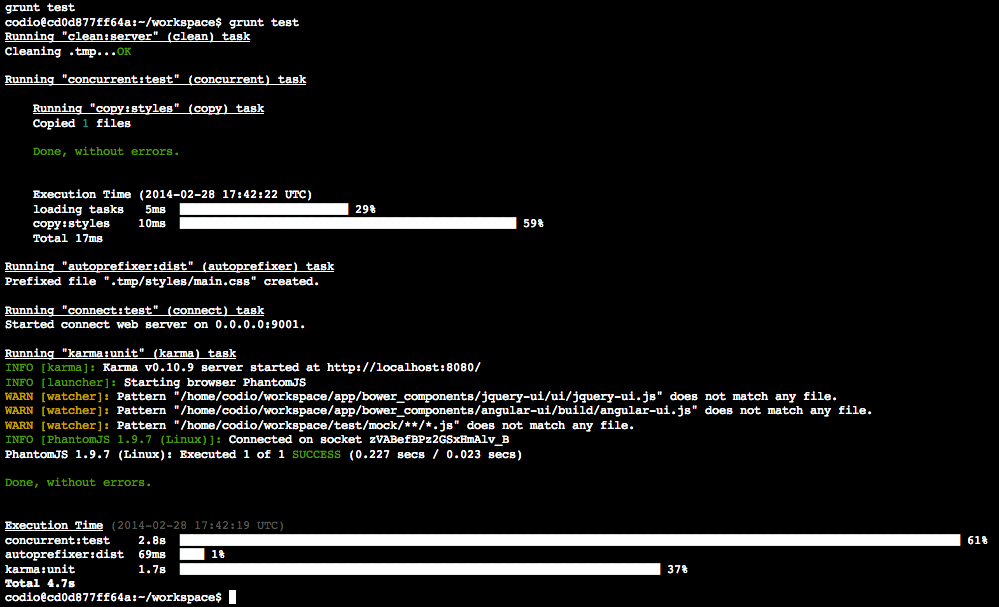
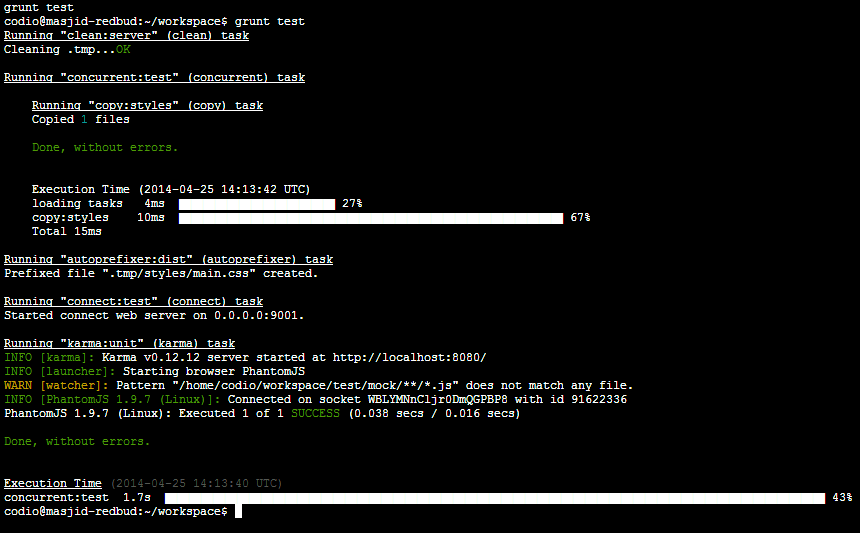
add sortable modules

Changed region(s): [[0.0, 0.0, 0.9977, 1.0]]

diff --git a/annotations.md b/annotations.md
@@ -11,24 +11,30 @@ Codio lets you create panels from the View->Panels menu. To get it done really q
 
 ![panels ready](img/panels-created.png)
 
-Use the navigation buttons at the top to move to the next step.
+Use the navigation buttons at the top to move to the next step. all Ok
 
 @annotation:tour
 ##MEET YEOMAN
 
 ![yeoman terminal](img/yeoman-term.png)
 
-Yeoman is a man in a hat with three tools for improving your productivity:
+Yeoman is a man in a hat with tricks up his sleeve.
 
-[yo](http://yeoman.io/) is a scaffolding tool that offers an ecosystem of framework-specific scaffolds, called generators, that can be used to perform some of the tedious tasks I mentioned earlier.
+With just a command or two, Yeoman can write boilerplate code for your entire web application or individual pieces like Controllers and Models. Yeoman can fire up a preview web server and watch your files for edits in order to live reload changes and compile your Sass. Yeoman can also run your unit tests, minimize and concatenate your code, optimize images, plus more!
+
+Yeoman comes with three tools for improving your productivity:
+
+[yo](http://yeoman.io/) is a scaffolding tool that offers an ecosystem of framework-specific scaffolds, called generators, that can be used to perform some of the tedious tasks mentioned earlier.
 
 [grunt](http://gruntjs.com/) is used to build, preview and test your project, thanks to help from tasks curated by the Yeoman team and [grunt-contrib](https://github.com/gruntjs/grunt-contrib).
 
 [bower](http://bower.io/) is used for dependency management, so that you no longer have to manually download your front-end libraries.
 
-With just a command or two, Yeoman can write boilerplate code for your app (or individual pieces like Models), compile your Sass, and fire up a simple web server in your current directory. It can also run your unit tests, minimize and concatenate your CSS, JS, HTML and images, plus more.
+You can install generators using the [npm](http://npmjs.org/) command and there are over [500 generators](http://yeoman.io/community-generators.html) now available, many of which have been written by the open-source community. Popular generators include [generator-angular](https://github.com/yeoman/generator-angular), [generator-backbone](https://github.com/yeoman/generator-backbone) and [generator-ember](https://github.com/yeoman/generator-ember).
 
-You can install generators using the [npm](http://npmjs.org/) command and there are over [450 generators](http://yeoman.io/community-generators.html) now available, many of which have been written by the open-source community. Popular generators include [generator-angular](https://github.com/yeoman/generator-angular), [generator-backbone](https://github.com/yeoman/generator-backbone) and [generator-ember](https://github.com/yeoman/generator-ember).
+##WHY USE YEOMAN?
+
+With so many great tools available to front-end web developers these days it can sometimes be difficult to understand how they all fit together. Deciding on a workflow that you’re happy with is often a very personal endeavour, but getting started isn’t always easy. Yeoman aims to solve this problem by scaffolding workflows for creating modern webapps, while at the same time mixing in many of the best practices that have evolved within the industry.
 
 ##TODAY’S SAMPLE YEOMAN APP: A TODO APP USING ANGULARJS
 
@@ -36,7 +42,7 @@ For those unfamiliar with AngularJS, it is a JavaScript framework for developing
 
 To dig deeper into the sweet spots of AngularJS, take a look at the detailed [documentation](http://docs.angularjs.org/guide).
 
-Let’s dive right into building the below Todo app from scratch.
+The sample web app you'll build will be a Todo app. You will be able to add todos, delete todos, organize your todos using drag and drop, and save todos offline.
 
 ![sample app](img/sample-app.png)
 
@@ -90,6 +96,8 @@ Alternatively, if you already know the name of the generator you want to use, th
 @annotation:tour
 #Use a Generator to scaffold your App
 
+We've used the word "scaffold" a few times but you might not know what that means. Scaffolding, in the Yeoman sense of the word, means generating files for your web app based on your specific configuration requests. In this step, you'll see how Yeoman can generate files specifically for Angular apps — with options for using other external libraries like SASS and Twitter Bootstrap — with minimal effort.
+
 Once a generator has been installed, you will automatically see the screen below (or it can be accessed via the Yeoman interactive menu: `$ yo`.
     
 ![install angular](img/yo-install-angular.png)    
@@ -135,7 +143,7 @@ In the file tree on the left, take a look at what was actually scaffolded. We ha
   - **fonts**: fonts used in the package
   - **images**: images used in the package
   - **scripts/controllers**: our own JS files
-  - **scripts/app.js**: our main application code
+  - **scripts/app.js**: our main Angular application code
   - **controllers**: our Angular controllers
   - **styles**: our CSS files
   - **views**: a place for our Angular templates
@@ -385,13 +393,154 @@ One thing you might notice is that although we’re able to add and remove items
 Don’t worry, we’ll fix this later after we learn more about installing packages with Bower.
 
 @annotation:tour
-#Using Bower to install angular-local-storage
+#Using Bower to install packages
+
+Let’s add some order to our list and make it sortable. For this we’re going to use Bower to install the [AngularUI Sortable](https://github.com/angular-ui/ui-sortable) module, a directive component for AngularJS.
 
 We can check what packages we have already installed with:
 
     $ bower list
+    
+You should see that you already have packages for angular-cookies, angular-resources, angular-route, plus others. 
 
-To easily achieve persistence, we can use another Angular module called [angular-local-storage](http://gregpike.net/demos/angular-local-storage/demo.html) that will allow us to quickly implement [Local Storage](http://diveintohtml5.info/storage.html). Bower comes to the rescue. Run the following command in the terminal:
+#Search for packages
+
+To verify that there are AngularUI packages available, use Bower to search for "angular-ui-sortable":
+
+    $ bower search angular-ui-sortable
+    
+There is one result for "angular-ui-sortable" so let’s install it along with [jQuery UI](http://jqueryui.com/) as we already have jQuery installed. To save you from searching, the package name for jQuery UI is "jquery-ui".
+
+#Install Packages
+
+Use Bower to install both "angular-ui-sortable" and "jquery-ui":
+
+    $ bower install --save angular-ui-sortable
+    $ bower install --save jquery-ui
+    
+The `--save` option updates the **bower.json** file with dependencies on angular-ui-sortable and jquery-ui. This will save you from having to manually add it to *bower.json* yourself.
+
+If you have multiple packages that you want to install, you can do it in one line:
+
+    $ bower install --save angular-ui-sortable jquery-ui
+    
+#Confirm Installation
+
+Take a look at your **app/bower_components** directory just to check that everything is there as expected. You should see folders for "jquery-ui" and "angular-ui-sortable" alongside the previously installed angular packages. If you do not see these new folders immediately, refresh the file tree using the refresh button at the bottom right of the tree
+
+@annotation:tour
+#Make Todos Sortable
+
+References to these newly installed dependencies must be added to our **app/index.html** file. You could manually add the AngularUI Sortable module and jQueryUI script files yourself but Yeoman will automate this for you!
+
+Quit your current command line process by using the Ctrl+C keyboard command in the Terminal or closing the Grunt Serve tab
+
+Then run `grunt serve` again.
+
+You'll see that the script section at the bottom of **app/index.html** has automatically updated to include `jquery-ui/ui/jquery-ui.js` and `angular-ui-sortable/sortable.js`:
+
+    <!-- build:js scripts/vendor.js -->
+    <!-- bower:js -->
+    <script src="bower_components/jquery/dist/jquery.js"></script>
+    <script src="bower_components/angular/angular.js"></script>
+    <script src="bower_components/bootstrap/dist/js/bootstrap.js"></script>
+    <script src="bower_components/angular-resource/angular-resource.js"></script>
+    <script src="bower_components/angular-cookies/angular-cookies.js"></script>
+    <script src="bower_components/angular-sanitize/angular-sanitize.js"></script>
+    <script src="bower_components/angular-route/angular-route.js"></script>
+    <script src="bower_components/jquery-ui/ui/jquery-ui.js"></script>
+    <script src="bower_components/angular-ui-sortable/sortable.js"></script>
+    <!-- endbower -->
+    <!-- endbuild -->
+
+@annotation:tour
+#Using Sortable Module
+
+**app/scripts/app.js**
+
+IMPORTANT: don't modify `main.js` by mistake. I made this mistake a couple of times setting this all up!
+
+In order to use the Sortable module, we must load it into our application by updating our Angular module definitions in `app/scripts/app.js`. Currently it looks like this:
+
+    'use strict';
+
+    angular.module('workspaceApp', [
+      'ngCookies',
+      'ngResource',
+      'ngSanitize',
+      'ngRoute'
+    ])
+      .config(function ($routeProvider) {
+        $routeProvider
+          .when('/', {
+            templateUrl: 'views/main.html',
+            controller: 'MainCtrl'
+          })
+          .otherwise({
+            redirectTo: '/'
+          });
+      });
+
+Add the ui.sortable dependency to the array list in the second paramater. Our complete todo module should now look like this:
+
+    'use strict';
+
+    angular.module('workspaceApp', [
+      'ngCookies',
+      'ngResource',
+      'ngSanitize',
+      'ngRoute',
+      'ui.sortable'
+    ])
+      .config(function ($routeProvider) {
+        $routeProvider
+          .when('/', {
+            templateUrl: 'views/main.html',
+            controller: 'MainCtrl'
+          })
+          .otherwise({
+            redirectTo: '/'
+          });
+      });
+      
+**app/views/main.html**      
+
+Finally, we need to add the `ui-sortable` directive as a `div` wrapper around our `ng-repeat` in `app/views/main.html`:
+
+    <!-- Todos list -->
+    <div ui-sortable ng-model="todos">
+      <p class="input-group" ng-repeat="todo in todos">
+      
+Let's also add some inline css in order to show a move cursor so it’s clear that we can move todo items:
+
+    <p class="input-group" ng-repeat="todo in todos" style="padding:5px 10px; cursor: move;">
+
+The full todo list markup looks like this now:
+
+    <!-- Todos list -->
+    <div ui-sortable ng-model="todos">
+      <p class="input-group" ng-repeat="todo in todos" style="padding:5px 10px; cursor: move;">
+        <input type="text" ng-model="todo" class="form-control">
+        <span class="input-group-btn">
+          <button class="btn btn-danger" ng-click="removeTodo($index)" aria-label="Remove">X</button>
+        </span>
+      </p>
+    </div>
+    
+Back in the browser, we can now re-order our list by dragging the entries up and down from:
+
+![order1](img/order1.png) 
+
+to:
+
+![order2](img/order2.png)
+
+@annotation:tour
+#Make Todos persistent with Local Storage
+
+Let’s revisit the issue of items not persisting when the browser refreshes.
+
+To easily achieve this, we can use another Angular module called [angular-local-storage](http://gregpike.net/demos/angular-local-storage/demo.html) that will allow us to quickly implement [Local Storage](http://diveintohtml5.info/storage.html). Bower comes to the rescue. Run the following command in the terminal:
 
     $ bower install --save angular-local-storage
 
@@ -401,7 +550,7 @@ and you'll see something like this ...
 
 
 @annotation:tour
-#Modifying index.html for Local Storage
+#Modifying app/index.html for Local Storage
 There are now 4 tutorial steps you'll run through to get persistant storage up and running, so don't start previewing just yet!
 
 Modify `app/index.html` to include the new Angular module by adding the following after the other Angular script tags:
@@ -412,14 +561,20 @@ Modify `app/index.html` to include the new Angular module by adding the followin
 
 Your `index.html` scripts should now look like this:
 
-    <script src="bower_components/jquery/dist/jquery.js"></script>
+    <!-- build:js scripts/vendor.js -->
+    <!-- bower:js -->
+    <script src="bower_components/jquery/jquery.js"></script>
     <script src="bower_components/angular/angular.js"></script>
     <script src="bower_components/bootstrap/dist/js/bootstrap.js"></script>
     <script src="bower_components/angular-resource/angular-resource.js"></script>
     <script src="bower_components/angular-cookies/angular-cookies.js"></script>
     <script src="bower_components/angular-sanitize/angular-sanitize.js"></script>
     <script src="bower_components/angular-route/angular-route.js"></script>
+    <script src="bower_components/jquery-ui/ui/jquery-ui.js"></script>
+    <script src="bower_components/angular-ui-sortable/sortable.js"></script>
     <script src="bower_components/angular-local-storage/angular-local-storage.js"></script>
+    <!-- endbower -->
+    <!-- endbuild -->
 
 @annotation:tour
 #Modifying app/scripts/app.js for Local Storage
@@ -433,6 +588,7 @@ Edit the todo module (app/scripts/app.js) to include the `localStorage` adapter:
       'ngResource',
       'ngSanitize',
       'ngRoute',
+      'ui.sortable',
       'LocalStorageModule'
     ])
 
@@ -451,6 +607,7 @@ Our todo module (app/scripts/app.js) should now look like this:
       'ngResource',
       'ngSanitize',
       'ngRoute',
+      'ui.sortable',
       'LocalStorageModule'
     ])
       .config(['localStorageServiceProvider', function(localStorageServiceProvider){
@@ -540,11 +697,9 @@ So to recap, in this section we:
 - Installed dependencies to improve the functionality in our app with `bower`
 - Used `grunt serve` to build and preview an interim version of our app. All our edits resulted in a live reload of the page giving us a nice real-time view of what we authored.
 
-
 @annotation:tour
-#Getting Ready for Production
 ##Testing with Karma and Jasmine
-For those unfamiliar with Karma, it is a JavaScript test runner that is test framework agnostic. The Angular generator has two included test frameworks: ngScenario and Jasmine. When we ran yo angular earlier in this Codelab, the generator scaffolded a test directory in the root folder, created a `karma.conf` file, and pulled in the Node modules for Karma. We’ll be editing a Jasmine script to describe our tests soon but let’s see how we can run tests first.
+For those unfamiliar with [Karma](http://karma-runner.github.io/), it is a JavaScript test runner that is test framework agnostic. The Angular generator has two included test frameworks: [ngScenario](https://code.angularjs.org/1.2.16/docs/guide/e2e-testing) and [Jasmine](http://jasmine.github.io/). When we ran `yo angular` earlier in this codelab, the generator scaffolded a **test** directory in the root folder, created a `karma.conf` file, and pulled in the Node modules for Karma. We’ll be editing a Jasmine script to describe our tests soon but let’s see how we can run tests first.
 
 Kill `grunt server` using Ctrl+C or just open up another terminal window from the Tools->Terminal menu.
 
@@ -569,7 +724,7 @@ Our tests are currently failing as we haven’t updated the boilerplate test whi
       'app/bower_components/jquery/dist/jquery.js',
       'app/bower_components/jquery-ui/ui/jquery-ui.js',
       'app/bower_components/angular/angular.js',
-      'app/bower_components/angular-ui/build/angular-ui.js',
+      'app/bower_components/angular-ui-sortable/sortable.js',
       'app/bower_components/angular-mocks/angular-mocks.js',
       'app/bower_components/angular-local-storage/angular-local-storage.js',
       'app/scripts/*.js',
@@ -608,11 +763,11 @@ Or, just replace everything with this ...
         frameworks: ['jasmine'],
 
         // list of files / patterns to load in the browser
-        files: [
+       files: [
           'app/bower_components/jquery/dist/jquery.js',
           'app/bower_components/jquery-ui/ui/jquery-ui.js',
           'app/bower_components/angular/angular.js',
-          'app/bower_components/angular-ui/build/angular-ui.js',
+          'app/bower_components/angular-ui-sortable/sortable.js',
           'app/bower_components/angular-mocks/angular-mocks.js',
           'app/bower_components/angular-local-storage/angular-local-storage.js',
           'app/scripts/*.js',
@@ -673,7 +828,7 @@ And replace that test with the following:
       expect(scope.todos.length).toBe(0);
     });
 
-Re-running our tests with grunt test should see our tests passing. Don't worry about the warnings. We're not using `jquery-ui` or `angular-ui`.
+Re-running our tests with grunt test should see our tests passing. Don't worry about the warnings. 
 
 You should see something like this ...
 
@@ -683,17 +838,20 @@ Fantastic!
 
 Writing unit tests make it easier to catch bugs as your app gets bigger and when more developers join your team. The scaffolding feature of Yeoman makes writing unit tests easier so no excuse for not writing your own tests! ;)
 
+
+
 @annotation:tour
-#Building for Production
+#Get Ready for Production
 ![yeoman sitting](img/yeoman-sitting.png)
 
 Ready to show your beautiful todo app to the world? Let’s try to create a production version of our application. We’ll want to lint our code, run our tests, concatenate and minify our scripts and styles to save on those network requests, optimize images if we were using any, compile the output of any preprocessors we’re using and in general make our application really lean. Phew!
 
-Amazingly we can achieve all of this just by runningGrunt in one of 2 ways
+Amazingly we can achieve all of this just by running Grunt in one of 2 ways
 
 - from  the Run menu dropdown, select 'Grunt Build'
 - from the command line, `grunt`
 
 This command will go through the Grunt tasks and configuration Yeoman has set up for you and create a version of your app we can ship. Give it a minute and you should be presented with a completed build and a report of how long the build took to complete and where time was spent:
 
+Your lean, production-ready application is now available in a dist folder in the root of your project. These are the files that you can put on your server using FTP or any other deployment methods
 

diff --git a/README.md b/README.md
@@ -2,7 +2,7 @@
 
 **By Addy Osmani, James Cryer & Pearl Chen with Annotation Tutorial by Codio**
 
-In this code lab, you build a fully functional application using Yeoman and AngularJS. The sample app provides a brief look at some Yeoman, Grunt and Bower features. 
+In this code lab, you build a fully functional  web application from scratch with the help of [Yeoman](http://yeoman.io/). You'll also use features from [Grunt](http://gruntjs.com/) and [Bower](http://bower.io/). The sample app will be written in [AngularJS](https://angularjs.org/).
 
 Take a look at the image below. You can see the Codio IDE with 
 
